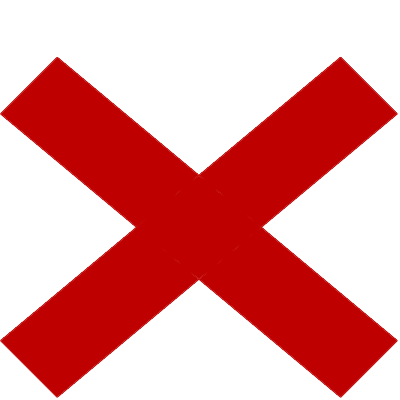
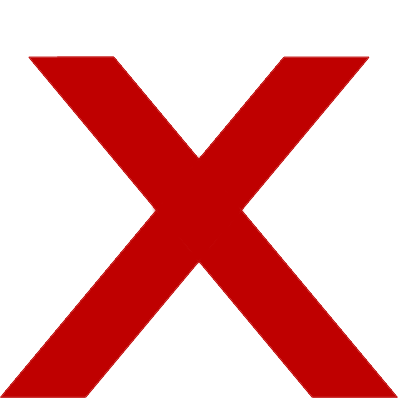
rodkryss

diff --git a/www/scripts/run.js b/www/scripts/run.js
@@ -54,7 +54,7 @@ $("input[type=submit]").click(function(){
     if (facit[question] != answers[question])
     {
       allCorrect = false;
-	  $("#"+question).html('<img src="/images/rodkryss2.png" class="kryss" />')
+	  $("#"+question).html('<img src="/images/rodkryss.png" class="kryss" />')
     }
     else
     {
